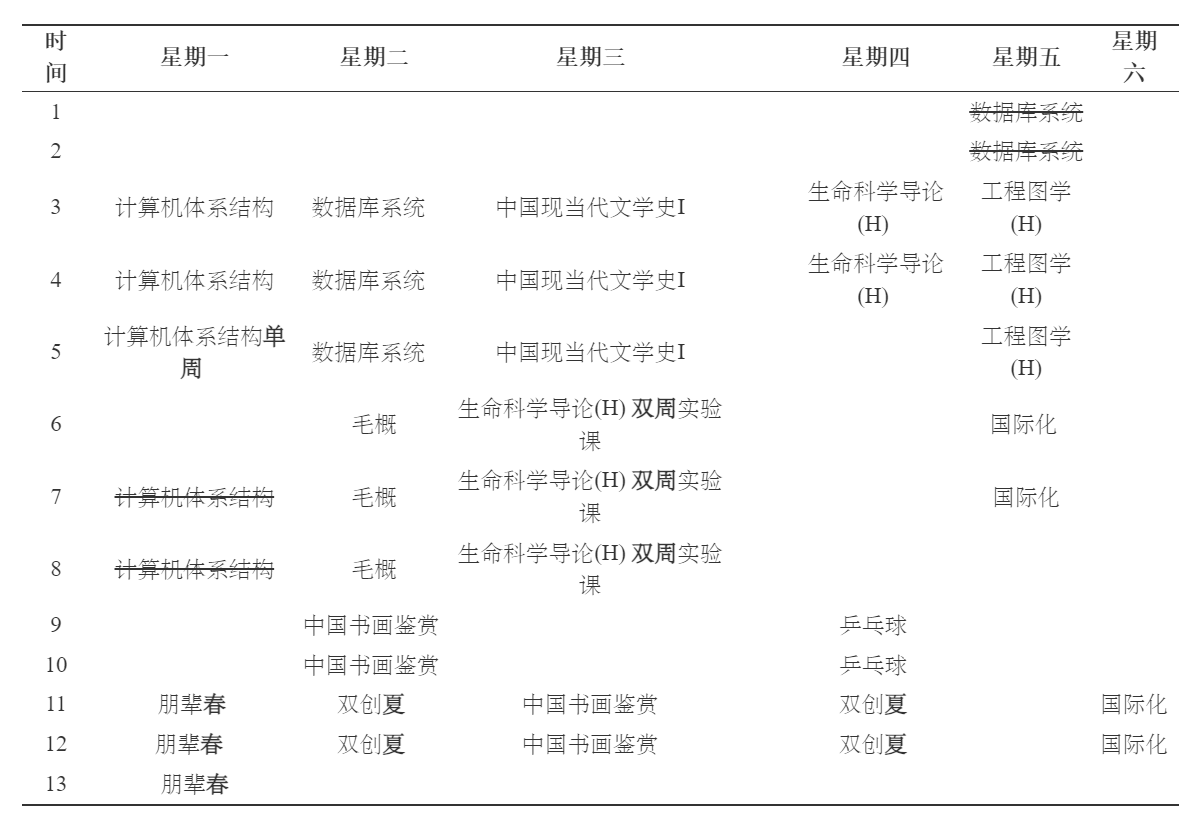
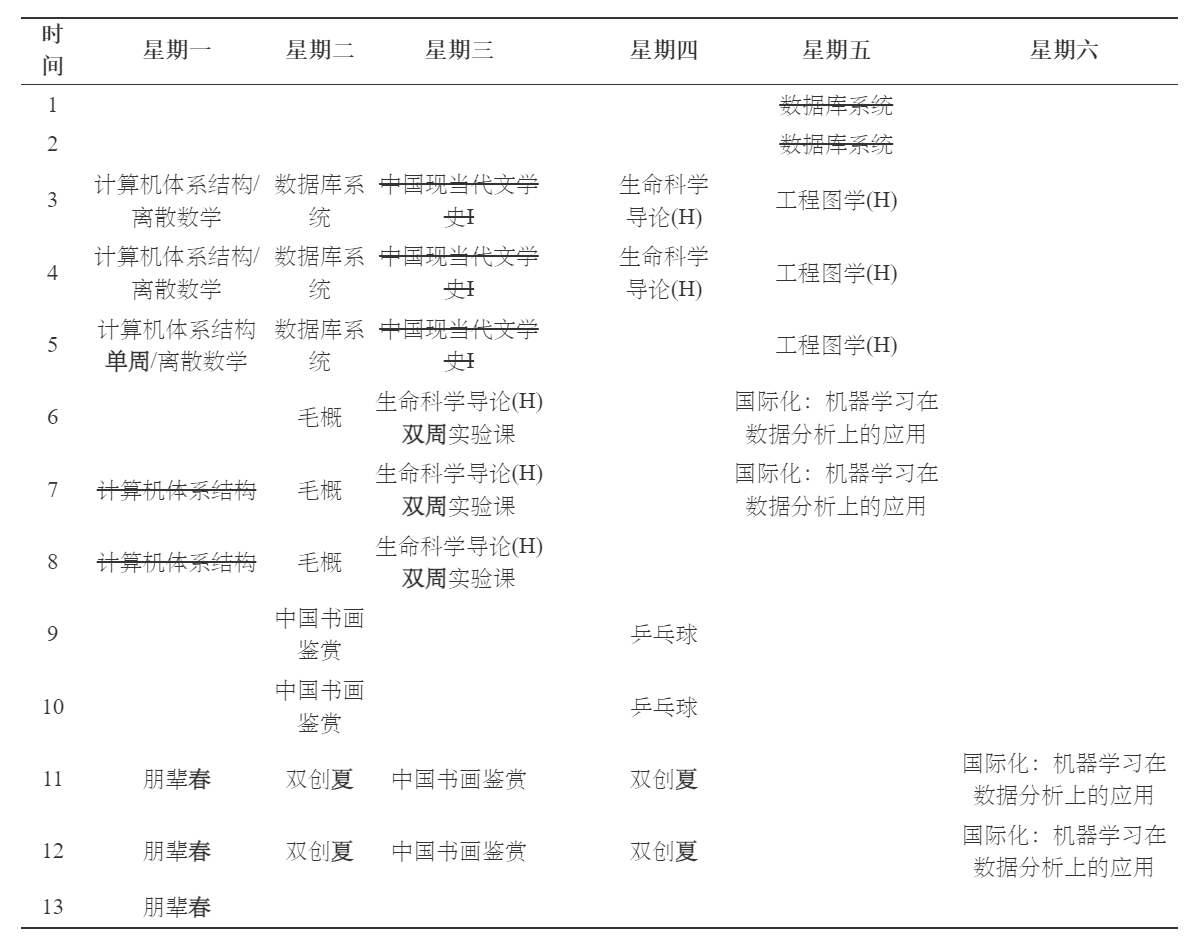
update

diff --git a/docs/gadgets/travel/wuxi_1.md b/docs/gadgets/travel/wuxi_1.md
@@ -6,21 +6,29 @@
 
 天气预报为晴，7 ~ 17°C
 
+王兴记的酱排骨没那么好吃，不过小笼包很好，第二天又买了一次.
+
+阳光下的鼋头渚风景很优美，还拍到了落日. 但是樱花开得不算很茂盛，时间上可能差了一周.
+
 
 
 ## 3.15
 
 天气预报为阴，8 ~ 16°C
 
+蠡园的小奶猫相当迷人.
+
 
 
 ## 花费结算
 
-| 类别 | 1                           | 2           | 3        | 4    | 总价   |
-| ---- | --------------------------- | ----------- | -------- | ---- | ------ |
-| 车费 | 高铁￥158+￥87+￥63 = ￥308 | 打车        | 共享单车 | 地铁 |        |
-| 门票 | 鼋头渚 ￥45                 | 蠡园 ￥42.5 |          |      | ￥87.5 |
-| 餐饮 |                             |             |          |      |        |
-| 住宿 | ￥367/3 = ￥122             |             |          |      | ￥122  |
+| 类别 | 1                           | 2                | 3                    | 4                        | 总价    |
+| ---- | --------------------------- | ---------------- | -------------------- | ------------------------ | ------- |
+| 车费 | 高铁￥158+￥87+￥63 = ￥308 | 打车￥25         | 共享单车￥5.9+1.8    | 地铁￥4+5                | ￥349.7 |
+| 门票 | 鼋头渚 ￥45                 | 蠡园 ￥42.5      | 蠡园乘船￥40         |                          | ￥127.5 |
+| 餐饮 | 王兴记￥36                  | 自助￥48+寿司￥6 | 咖啡￥6+茶颜悦色￥20 | 王兴记小笼￥12+鸡排￥9.9 | ￥137.9 |
+| 住宿 | ￥367/3 = ￥122             |                  |                      |                          | ￥122   |
 
-预算￥600，估计会超一点
+预算￥700，估计会超一点
+
+最终：￥737.1

diff --git a/docs/zju/22/index.md b/docs/zju/22/index.md
@@ -15,7 +15,7 @@
     <tr>
         <td><a href="arch/">计算机体系结构（CA, arch）笔记</a></td>
         <td><a href="bio/">生命科学导论（H）笔记</a></td>
-        <td><a href="lit/">中国现当代文学史I笔记</a></td>
+        <td><a href="lit/">中国现当代文学史I（已退课）</a></td>
     </tr>
     <tr>
         <td><a href="ml/">机器学习在数据分析上的实际运用（国际化）笔记</td>

diff --git a/docs/zju/22/lit/index.md b/docs/zju/22/lit/index.md
@@ -1,3 +1,5 @@
+> 后来我选择了退课和退微辅修，但是仍然去线下听课。考评毁掉了许多我想去学的课程.
+
 ???+ info "参考资源"
     摘录自[Socralin的博客](https://socralin.github.io/2025/02/11/Chinese-Modern-Literature-History-I-Learning/)：
 
